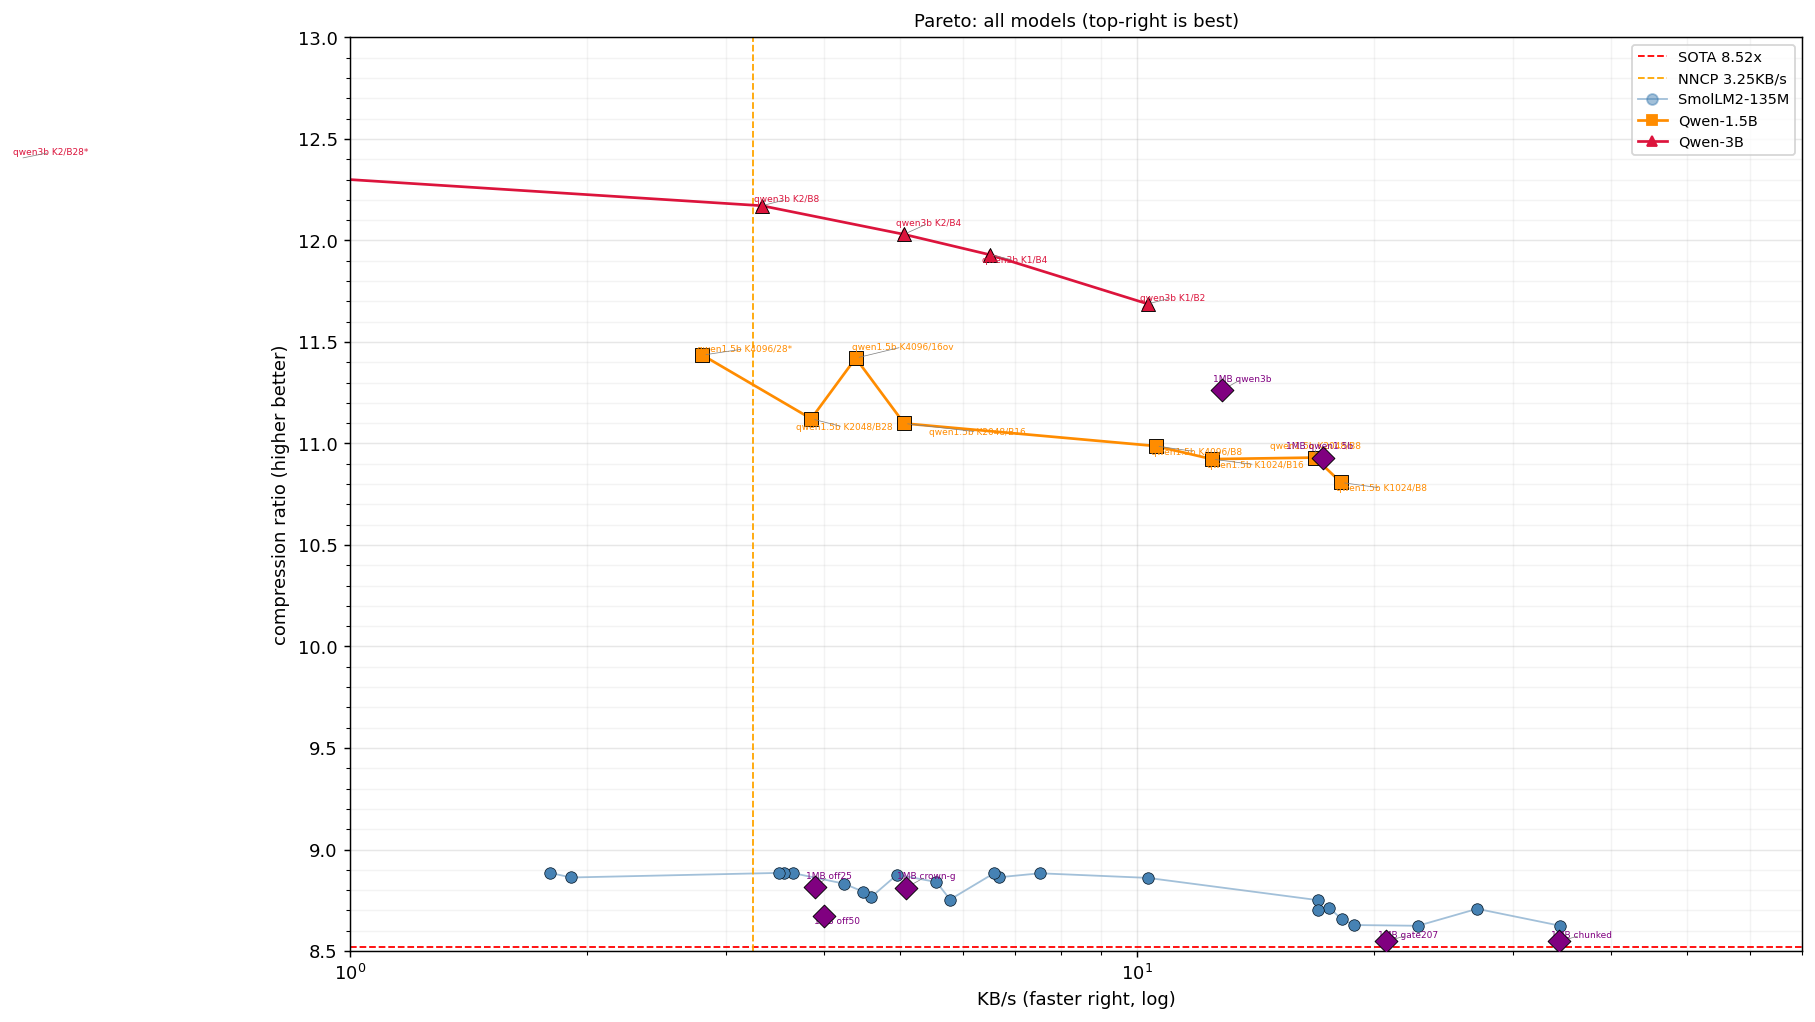
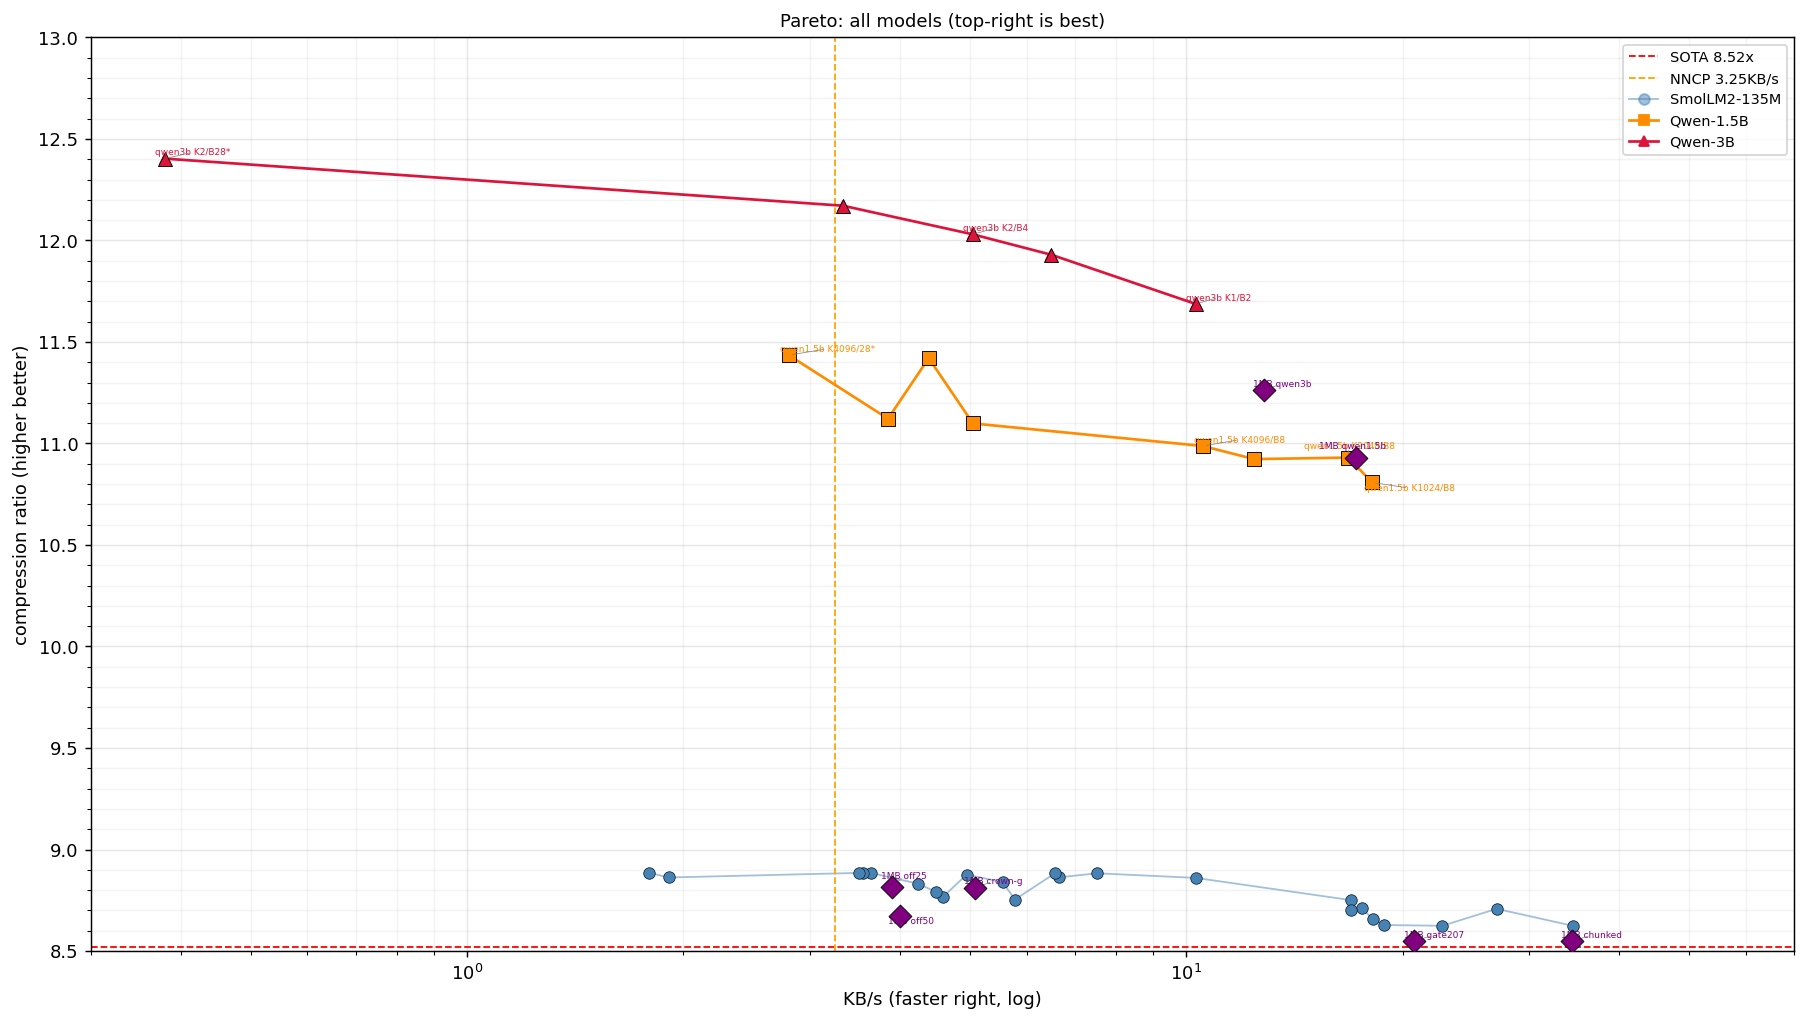
Fix all-models Pareto: xlim 0.3-70 (no clipped K2/B28), reduce Qwen labels to key points only

diff --git a/tools/pareto_plot.py b/tools/pareto_plot.py
@@ -176,25 +176,29 @@ sy = [8/OFF50[i][2] for i in order]
 ax.plot(sx, sy, "o-", color="steelblue", lw=1, alpha=0.5, label="SmolLM2-135M", zorder=1)
 for lab, x, b in OFF50:
     ax.scatter([x], [8/b], s=40, color="steelblue", edgecolors="black", lw=0.3, zorder=2)
-# Qwen-1.5B
+# Qwen-1.5B: label only extremes + balanced
 order = sorted(range(len(QWEN15B)), key=lambda i: QWEN15B[i][1])
 qx = [QWEN15B[i][1] for i in order]
 qy = [8/QWEN15B[i][2] for i in order]
 ax.plot(qx, qy, "s-", color="darkorange", lw=1.5, label="Qwen-1.5B", zorder=2)
 texts = []
-for lab, x, b in QWEN15B:
+_q_show_idx = {0, len(QWEN15B)-1, 3, 1}  # fastest, slowest, K4k/B8, K2k/B8
+for idx, (lab, x, b) in enumerate(QWEN15B):
     ax.scatter([x], [8/b], s=60, marker="s", color="darkorange", edgecolors="black", lw=0.5, zorder=3)
-    txt = ax.text(x, 8/b, lab, fontsize=5, ha="center", va="bottom", color="darkorange")
-    texts.append(txt)
-# Qwen-3B
+    if idx in _q_show_idx:
+        txt = ax.text(x, 8/b, lab, fontsize=5, ha="center", va="bottom", color="darkorange")
+        texts.append(txt)
+# Qwen-3B: label only extremes + balanced
 order = sorted(range(len(QWEN3B)), key=lambda i: QWEN3B[i][1])
 tx = [QWEN3B[i][1] for i in order]
 ty = [8/QWEN3B[i][2] for i in order]
 ax.plot(tx, ty, "^-", color="crimson", lw=1.5, label="Qwen-3B", zorder=2)
-for lab, x, b in QWEN3B:
+_t_show_idx = {0, len(QWEN3B)-1, 2}  # fastest, slowest, middle
+for idx, (lab, x, b) in enumerate(QWEN3B):
     ax.scatter([x], [8/b], s=60, marker="^", color="crimson", edgecolors="black", lw=0.5, zorder=3)
-    txt = ax.text(x, 8/b, lab, fontsize=5, ha="center", va="bottom", color="crimson")
-    texts.append(txt)
+    if idx in _t_show_idx:
+        txt = ax.text(x, 8/b, lab, fontsize=5, ha="center", va="bottom", color="crimson")
+        texts.append(txt)
 # 1MB diamonds
 for lab, x, b in MB1_SMOLM2 + MB1_QWEN:
     y = 8/b
@@ -203,7 +207,7 @@ for lab, x, b in MB1_SMOLM2 + MB1_QWEN:
     texts.append(txt)
 adjust_text(texts, ax=ax, arrowprops=dict(arrowstyle="-", color="gray", lw=0.4),
             expand_points=(1.5, 2.0), force_text=0.4, force_points=0.3, lim=120)
-ax.set_xlim(1, 70)
+ax.set_xlim(0.3, 70)
 ax.set_ylim(8.5, 13)
 ax.legend(fontsize=8, loc="upper right")
 fig.tight_layout()
